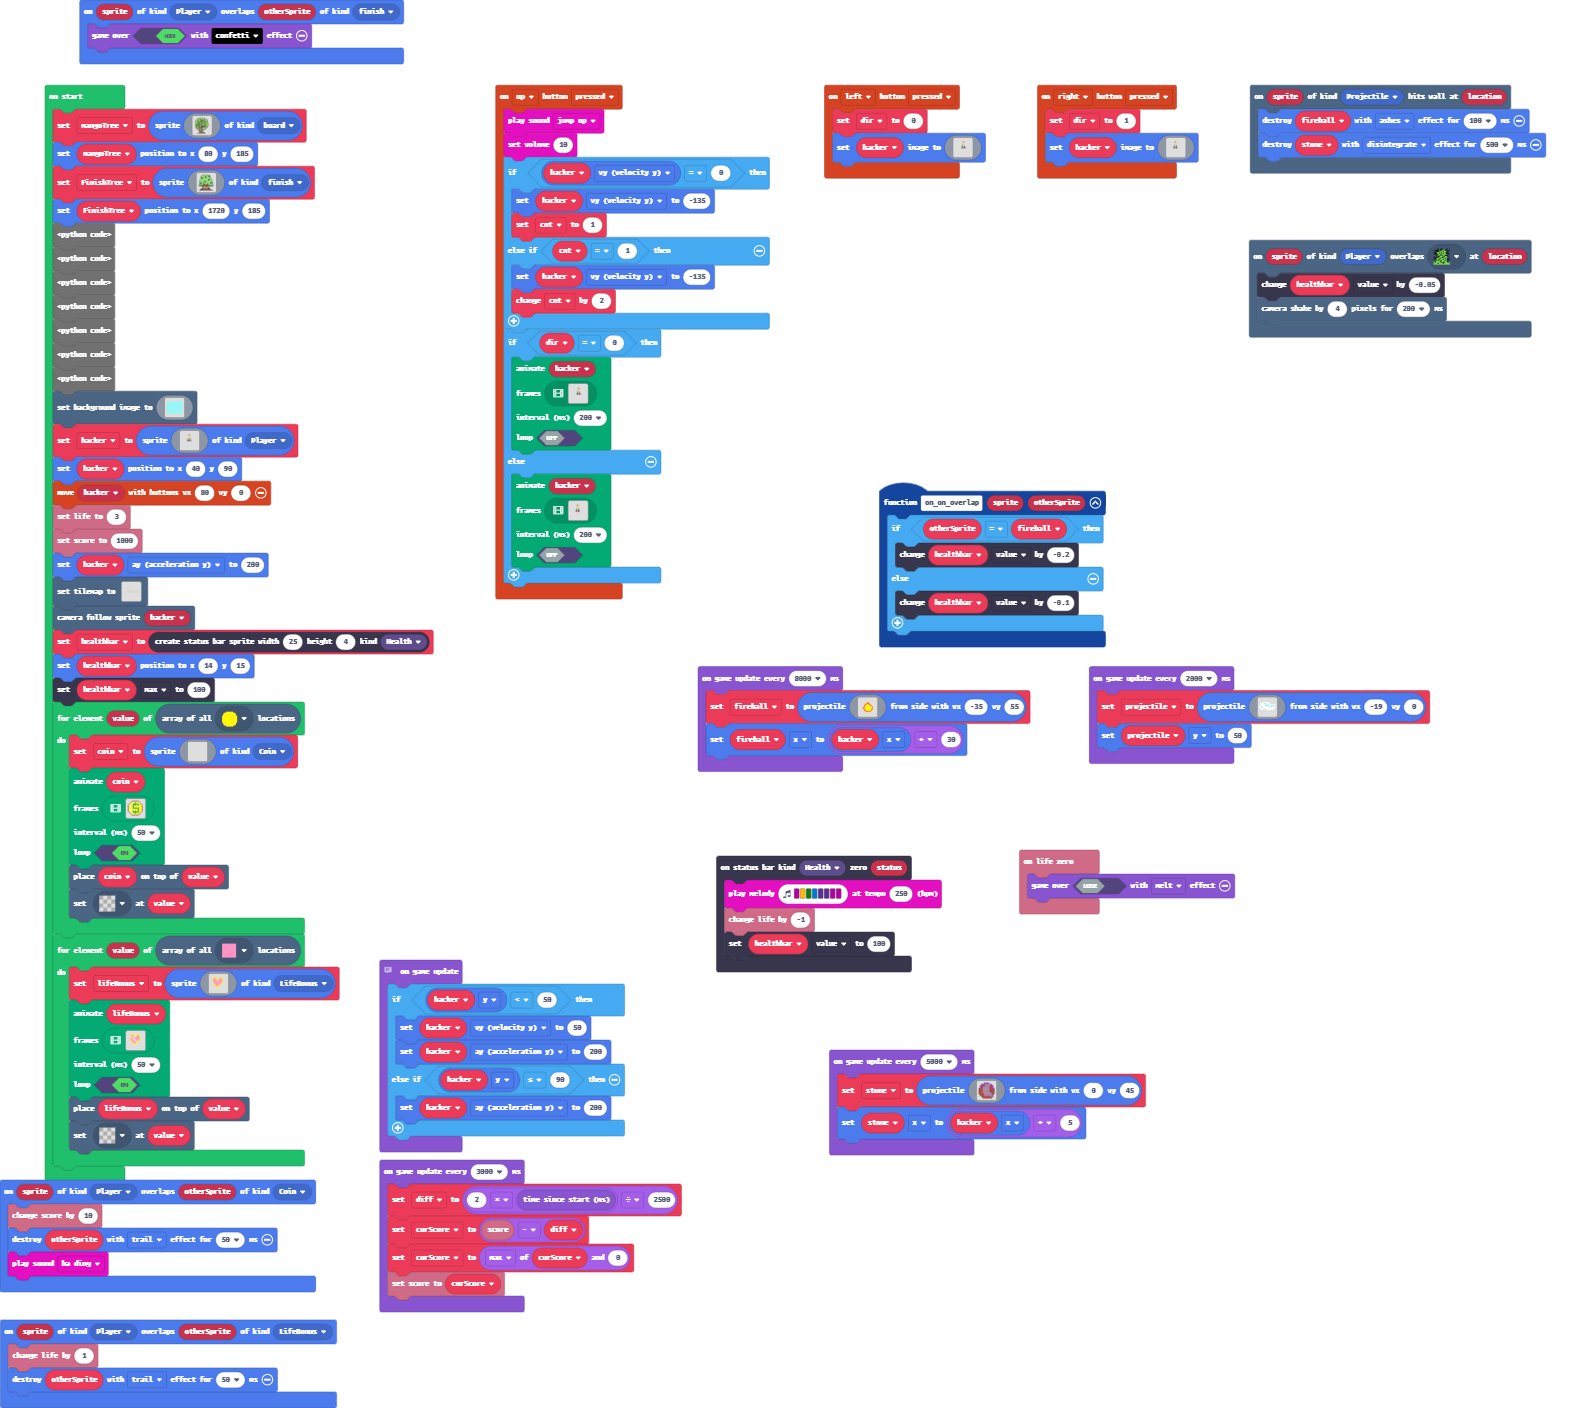
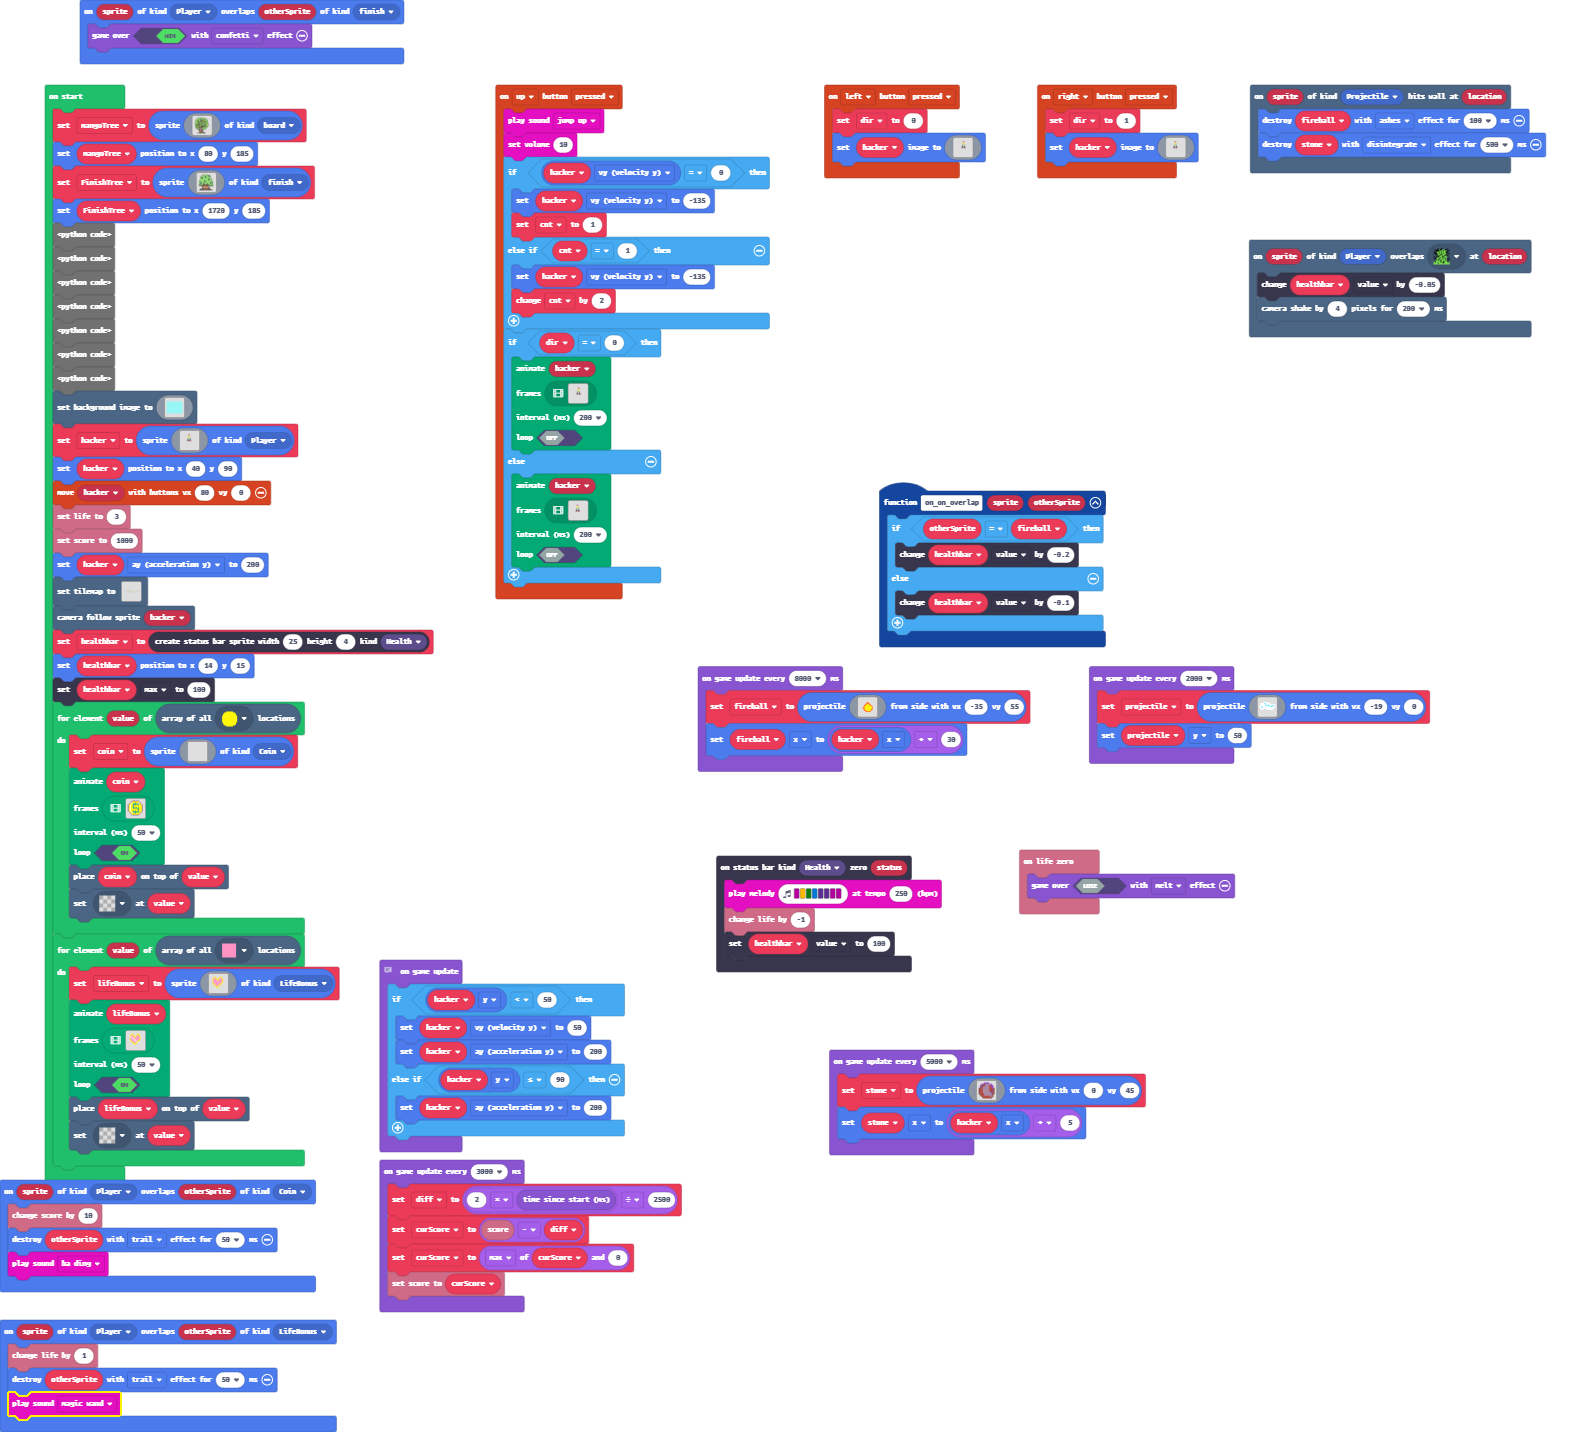
Update main.blocks, main.ts

diff --git a/main.ts b/main.ts
@@ -9,6 +9,7 @@ namespace SpriteKind {
 sprites.onOverlap(SpriteKind.Player, SpriteKind.LifeBonus, function (sprite, otherSprite) {
     info.changeLifeBy(1)
     otherSprite.destroy(effects.trail, 50)
+    music.magicWand.play()
 })
 controller.up.onEvent(ControllerButtonEvent.Pressed, function () {
     music.jumpUp.play()
